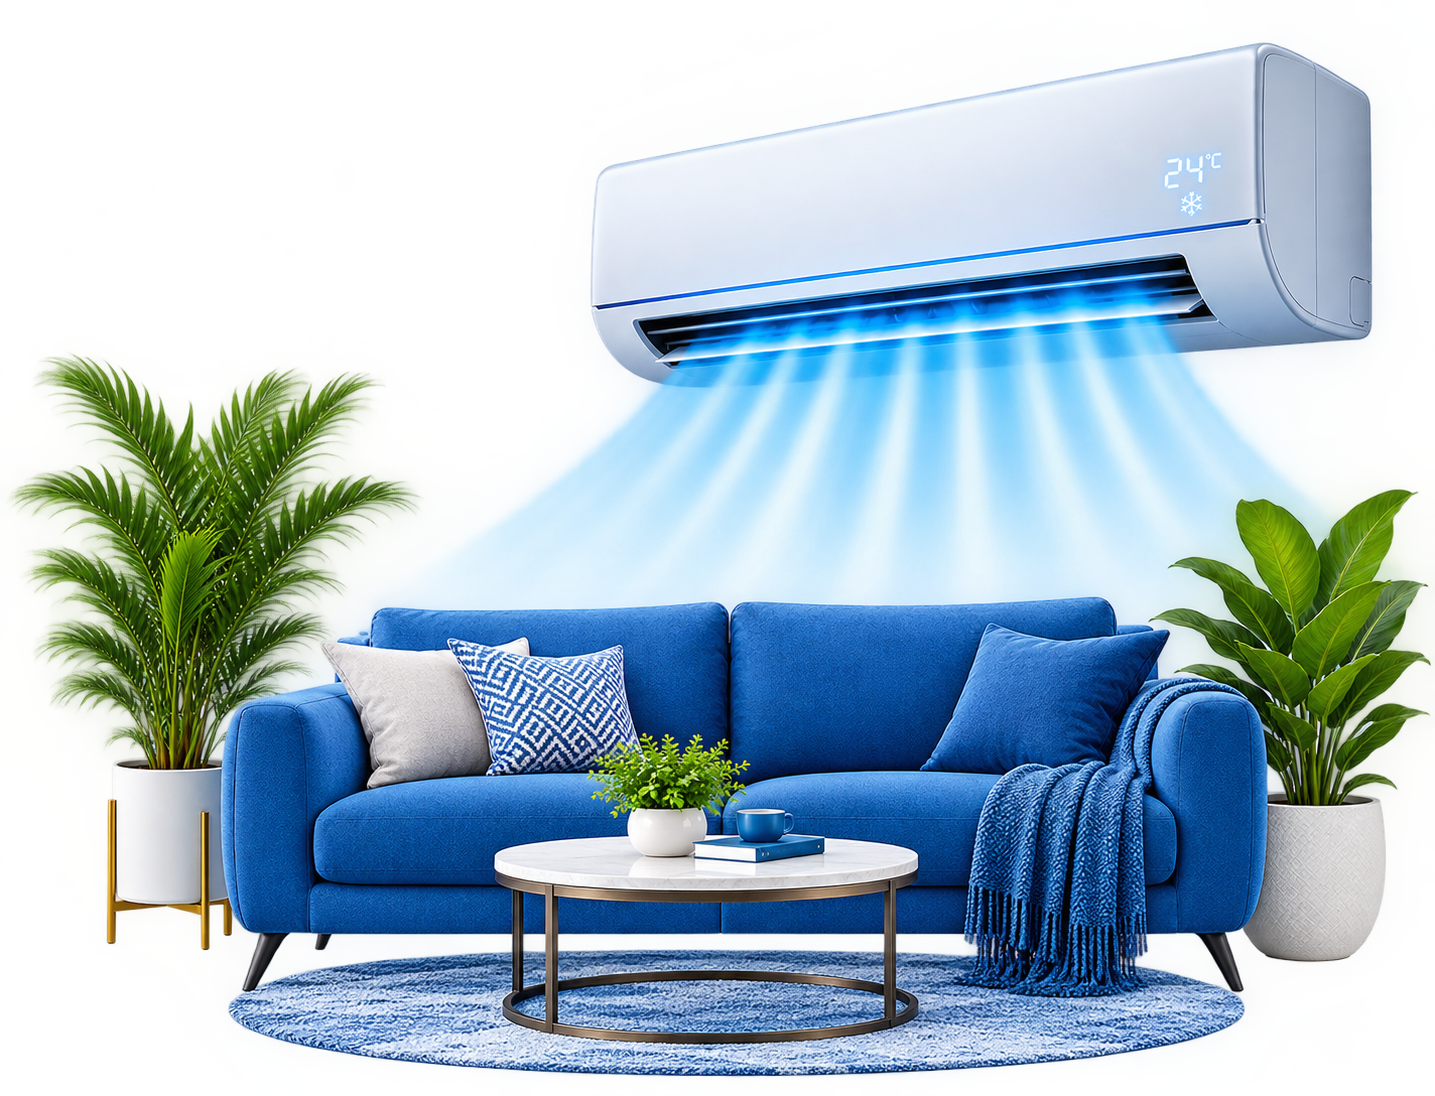
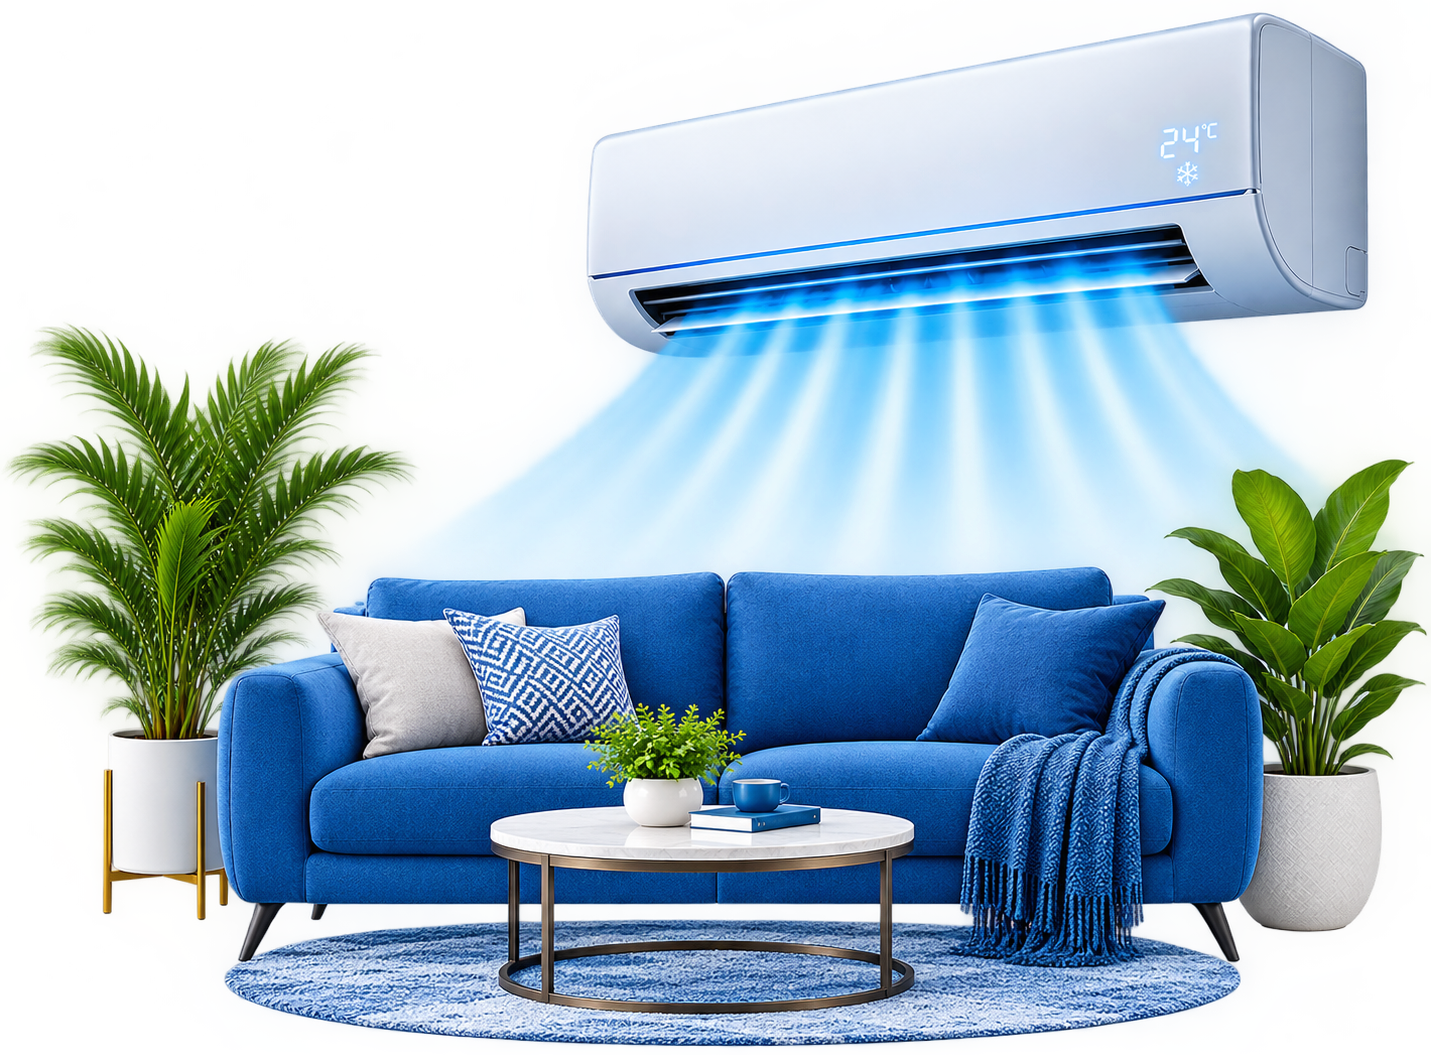
updates

diff --git a/css/style.css b/css/style.css
@@ -558,7 +558,7 @@ h1, h2, h3, h4, h5, h6 {
   position: relative;
   background: linear-gradient(145deg, #061426 0%, #0a1c36 50%, #061222 100%);
   color: #ffffff;
-  padding: 5rem 0 5.5rem 0;
+  padding: 2.25rem 0 2.5rem 0;
   overflow: hidden;
 }
 
@@ -589,15 +589,15 @@ h1, h2, h3, h4, h5, h6 {
 
 .hero-grid {
   display: grid;
-  grid-template-columns: 1.1fr 0.9fr;
+  grid-template-columns: 1fr 1.12fr;
   align-items: center;
-  gap: 3.5rem;
+  gap: 2rem;
   position: relative;
   z-index: 2;
 }
 
 .hero-content {
-  max-width: 620px;
+  max-width: 580px;
 }
 
 .hero-tag-pill {
@@ -611,9 +611,9 @@ h1, h2, h3, h4, h5, h6 {
   font-weight: 800;
   text-transform: uppercase;
   letter-spacing: 0.8px;
-  padding: 0.4rem 1rem;
+  padding: 0.35rem 0.95rem;
   border-radius: var(--radius-pill);
-  margin-bottom: 1.25rem;
+  margin-bottom: 0.85rem;
 }
 
 .pill-dot {
@@ -625,12 +625,12 @@ h1, h2, h3, h4, h5, h6 {
 }
 
 .hero-title {
-  font-size: clamp(2.3rem, 4.6vw, 3.6rem);
+  font-size: clamp(2.2rem, 4.2vw, 3.4rem);
   font-weight: 800;
   color: #ffffff;
   line-height: 1.12;
   letter-spacing: -0.03em;
-  margin-bottom: 1.25rem;
+  margin-bottom: 0.9rem;
 }
 
 .hero-title-accent {
@@ -639,19 +639,19 @@ h1, h2, h3, h4, h5, h6 {
 }
 
 .hero-description {
-  font-size: 1.1rem;
+  font-size: 1.05rem;
   color: #94a3b8;
-  line-height: 1.65;
-  margin-bottom: 2rem;
-  max-width: 560px;
+  line-height: 1.6;
+  margin-bottom: 1.5rem;
+  max-width: 540px;
 }
 
 .hero-cta-group {
   display: flex;
   align-items: center;
-  gap: 1.15rem;
+  gap: 1rem;
   flex-wrap: wrap;
-  margin-bottom: 2.25rem;
+  margin-bottom: 1.65rem;
 }
 
 /* Key Highlights Strip */
@@ -659,7 +659,7 @@ h1, h2, h3, h4, h5, h6 {
   display: grid;
   grid-template-columns: repeat(3, 1fr);
   gap: 1.25rem;
-  padding-top: 1.75rem;
+  padding-top: 1.35rem;
   border-top: 1px solid rgba(255, 255, 255, 0.12);
 }
 
@@ -694,26 +694,27 @@ h1, h2, h3, h4, h5, h6 {
 .hero-media {
   position: relative;
   display: flex;
-  justify-content: center;
+  justify-content: flex-end;
   align-items: center;
+  width: 100%;
 }
 
 .hero-banner-wrapper {
   position: relative;
   width: 100%;
-  max-width: 680px;
+  max-width: 740px;
   display: flex;
-  justify-content: center;
+  justify-content: flex-end;
   align-items: center;
 }
 
 .hero-banner-png {
   width: 100%;
-  max-width: 680px;
+  max-width: 740px;
   height: auto;
   display: block;
   object-fit: contain;
-  filter: drop-shadow(0 20px 40px rgba(0, 10, 30, 0.55));
+  filter: drop-shadow(0 20px 45px rgba(0, 10, 30, 0.5));
   transition: transform 0.35s ease;
 }
 

diff --git a/index.html b/index.html
@@ -134,9 +134,9 @@
 
         <div class="hero-media reveal-on-scroll">
           <div class="hero-banner-wrapper">
-            <img src="assets/images/Pasted image.png"
+            <img src="assets/images/herobanner.png"
               alt="Stay Cool All Year Round - Carrier Split Air Conditioner cooling living room with royal blue sofa"
-              class="hero-banner-png" width="680" height="406" />
+              class="hero-banner-png" width="720" height="530" />
           </div>
         </div>
       </div>
